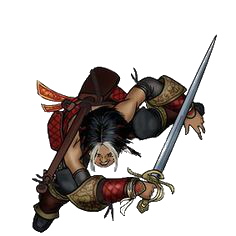
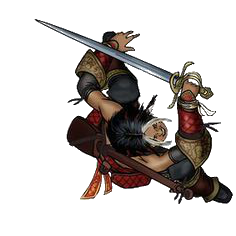
Rotate the images

diff --git a/src/main/java/com/gayasystem/games/dnd/drawables/races/DrawableHuman.java b/src/main/java/com/gayasystem/games/dnd/drawables/races/DrawableHuman.java
@@ -12,7 +12,6 @@ import java.io.IOException;
 import java.util.Objects;
 
 import static com.gayasystem.games.dnd.lifeforms.Gender.female;
-import static java.lang.Math.PI;
 
 @Service
 public class DrawableHuman implements Drawable {
@@ -21,16 +20,15 @@ public class DrawableHuman implements Drawable {
 
     public DrawableHuman() throws IOException {
         var img = ImageIO.read(Objects.requireNonNull(this.getClass().getResource("/images/races/HumanFemale.png")));
-        imageFemale = img.getScaledInstance(100, 100, Image.SCALE_SMOOTH);
+        imageFemale = img.getScaledInstance(200, 200, Image.SCALE_SMOOTH);
 
         img = ImageIO.read(Objects.requireNonNull(this.getClass().getResource("/images/races/HumanMale.png")));
-        imageMale = img.getScaledInstance(100, 100, Image.SCALE_SMOOTH);
+        imageMale = img.getScaledInstance(200, 200, Image.SCALE_SMOOTH);
     }
 
     @Override
     public void draw(int width, int height, InGameObject obj, Point point, Graphics2D g) {
         var orientation = obj.orientation().phi().doubleValue();
-        orientation += PI / 2;
         int x = point.x;
         int y = point.y;
 

diff --git a/src/main/java/com/gayasystem/games/dnd/drawables/beasts/DrawableAlmiraj.java b/src/main/java/com/gayasystem/games/dnd/drawables/beasts/DrawableAlmiraj.java
@@ -10,21 +10,18 @@ import java.awt.geom.AffineTransform;
 import java.io.IOException;
 import java.util.Objects;
 
-import static java.lang.Math.PI;
-
 @Service
 public class DrawableAlmiraj implements Drawable {
     private final Image image;
 
     public DrawableAlmiraj() throws IOException {
         var img = ImageIO.read(Objects.requireNonNull(this.getClass().getResource("/images/beasts/Almiraj.png")));
-        image = img.getScaledInstance(80, 100, Image.SCALE_SMOOTH);
+        image = img.getScaledInstance(80, 80, Image.SCALE_SMOOTH);
     }
 
     @Override
     public void draw(int width, int height, InGameObject obj, Point point, Graphics2D g) {
         var orientation = obj.orientation().phi().doubleValue();
-        orientation += PI / 2;
         int x = point.x;
         int y = point.y;
 

diff --git a/src/main/java/com/gayasystem/games/dnd/drawables/food/DrawableCarrot.java b/src/main/java/com/gayasystem/games/dnd/drawables/food/DrawableCarrot.java
@@ -10,21 +10,18 @@ import java.awt.geom.AffineTransform;
 import java.io.IOException;
 import java.util.Objects;
 
-import static java.lang.Math.PI;
-
 @Service
 public class DrawableCarrot implements Drawable {
     private final Image image;
 
     public DrawableCarrot() throws IOException {
         var img = ImageIO.read(Objects.requireNonNull(this.getClass().getResource("/images/food/Carrot.png")));
-        image = img.getScaledInstance(40, 60, Image.SCALE_SMOOTH);
+        image = img.getScaledInstance(60, 40, Image.SCALE_SMOOTH);
     }
 
     @Override
     public void draw(int width, int height, InGameObject obj, Point point, Graphics2D g) {
         var orientation = obj.orientation().phi().doubleValue();
-        orientation -= PI / 2;
         int x = point.x;
         int y = point.y;
 
